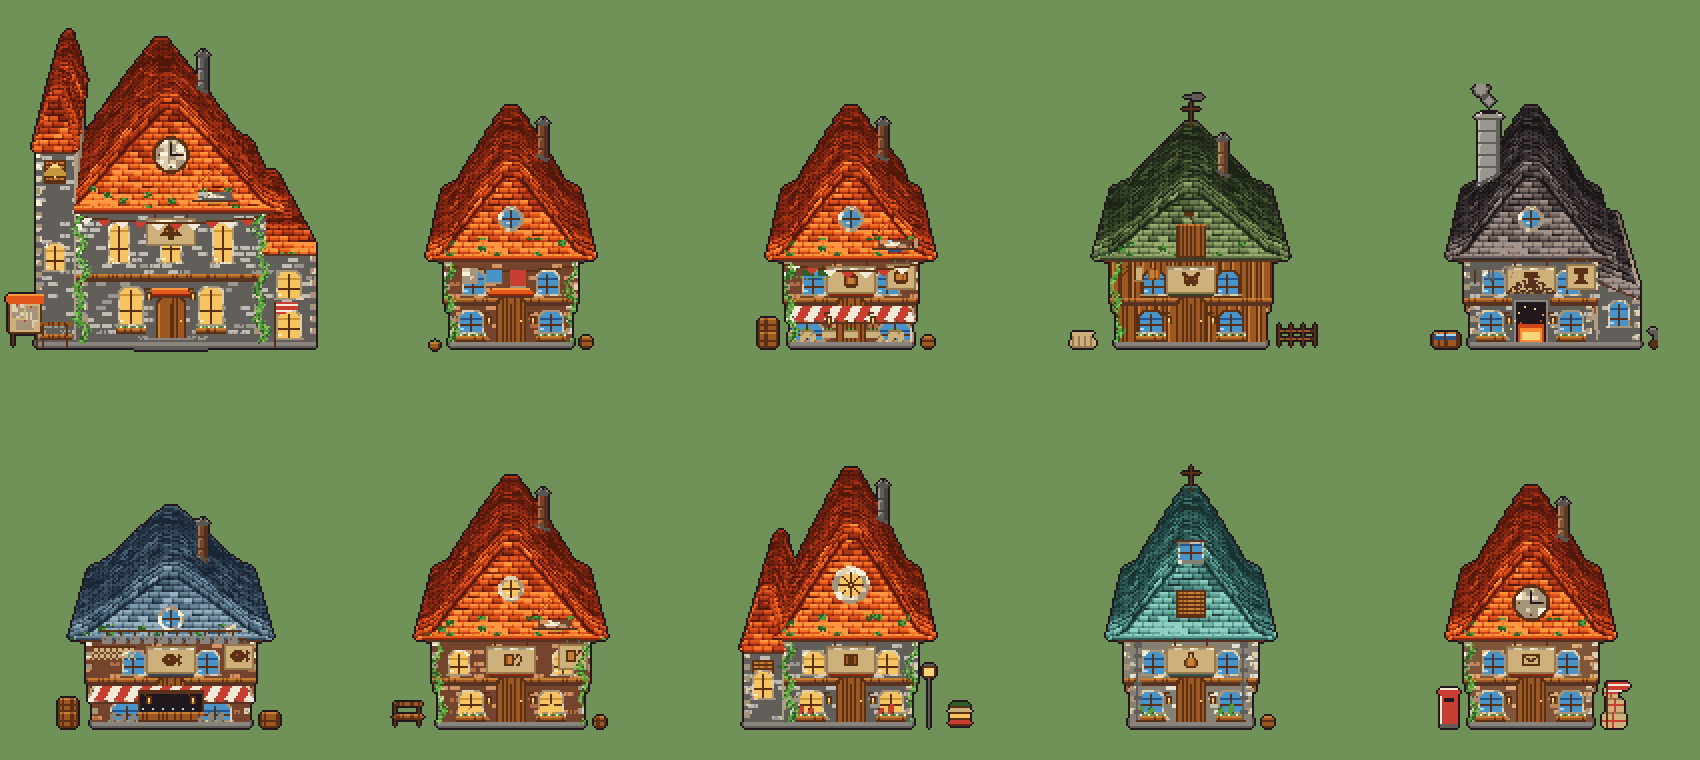
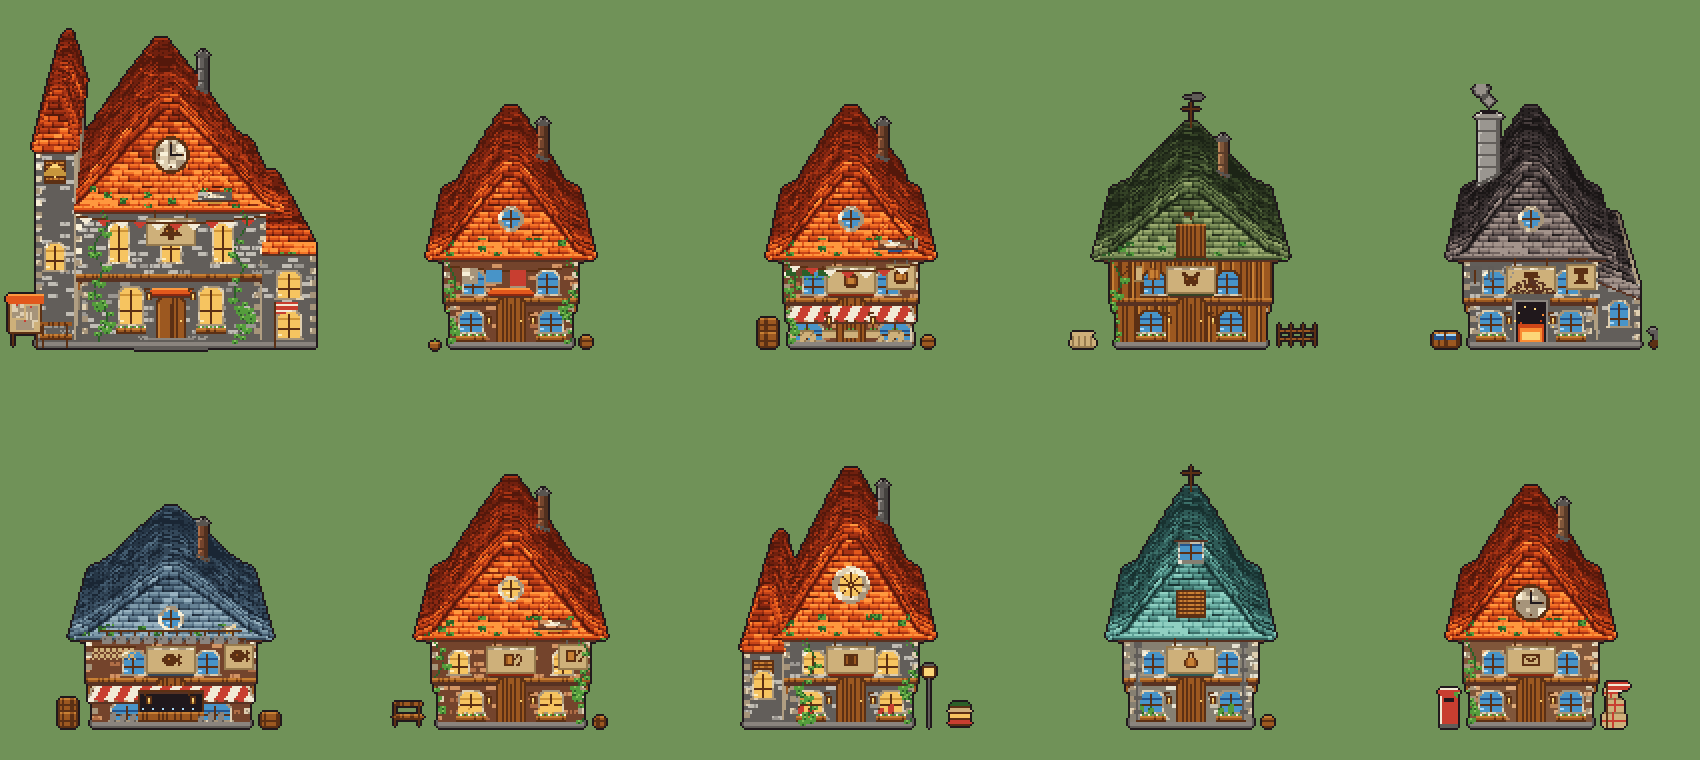
담쟁이를 밧줄에서 식물로
줄기를 통줄로 긋고 이웃 칸을 확률로 칠했더니 벽에 **초록 밧줄**이 걸려
있었다. 식물은 그렇게 안 생겼다:

  잎    한 장에 **세 색이 다 들어간다** — 윤곽(N)·속(n)·빛(v).
        한 색으로 칠한 덩어리는 잎이 아니라 이끼다
  줄기  두 파장으로 휘고 **띄엄띄엄 끊긴다**. 통줄이면 그것도 밧줄이다
  잎차례 줄기 옆에 **번갈아** 한 장씩. 위로 갈수록 성기게
  곁가지 가끔 옆으로 뻗어 나가며 잎을 단다. 이게 있어야 「자란 것」이 된다
  덩굴손 꼭대기에서 한두 가닥이 가늘게 삐져나온다.
        뭉툭하게 끝나면 잘라 붙인 것처럼 보인다

그리고 자리도 옮겼다. 덩어리가 붙은 쪽은 담쟁이를 **안으로 들인다** —
이음매 위에 얹으면 가려 주기는커녕 「여기가 경계다」를 초록으로 표시하는
꼴이 된다.

diff --git a/game/assets/ref/make_buildings.js b/game/assets/ref/make_buildings.js
@@ -730,16 +730,49 @@ function clockFace(g, cx, cy, r) {
 // 처마 밑**을 타고 오른다. 넓은 면 한복판에 붙이면 얼룩으로 보인다.
 function ivy(g, x, yBottom, yTop) {
   const h = Math.max(1, yBottom - yTop);
+  const on = (px, py) => g.get(px, py) !== '.';            // 실루엣 안에서만 자란다
+
+  // 잎 한 장 — **세 색이 다 들어가야** 잎으로 보인다: 윤곽·속·빛.
+  // 한 색으로 칠한 덩어리는 이끼지 잎이 아니다
+  const leaf = (px, py, big) => {
+    const w = big ? 2 : 1;
+    for (let dy = 0; dy <= w; dy++) for (let dx = -w; dx <= w; dx++) {
+      if (Math.abs(dx) + dy > w + 1) continue;
+      if (on(px + dx, py + dy)) g.px(px + dx, py + dy, 'n');
+    }
+    if (on(px, py)) g.px(px, py, 'v');                     // 윗면이 빛을 받는다
+    if (on(px, py + w)) g.px(px, py + w, 'N');             // 밑은 그늘
+  };
+
+  let side = 1;
   for (let y = yBottom; y >= yTop; y--) {
     const t = (yBottom - y) / h;
-    const px = x + Math.round(Math.sin(y * 0.42) * 1.7 + Math.sin(y * 0.17) * 1.2);
-    const dens = 0.66 - t * 0.40;                          // 끝으로 갈수록 성기게
-    for (const [dx, dy] of [[0, 0], [-1, 0], [1, 0], [0, -1], [-2, 1], [2, -1], [1, 1], [-1, 1]]) {
-      if (dx && hash(px * 3 + dx, y * 5 + dy) > dens) continue;
-      if (g.get(px + dx, y + dy) === '.') continue;        // 실루엣 밖으로는 안 뻗는다
-      g.px(px + dx, y + dy, hash(px + dx * 7, y + dy * 11) < 0.28 ? 'v'
-        : (hash(px + dx, y - dy) < 0.35 ? 'N' : 'n'));
+    // 줄기 — 두 파장으로 휘며 오른다. 곧게 그으면 밧줄이 된다.
+    // 그리고 **띄엄띄엄** 끊는다 — 통줄이면 그것도 밧줄이다
+    const sx = x + Math.round(Math.sin(y * 0.27) * 2.4 + Math.sin(y * 0.09) * 1.7);
+    if (on(sx, y) && hash(sx, y) < 0.8) g.px(sx, y, 'N');
+    // 잎은 줄기 **옆에 한 장씩** 번갈아. 위로 갈수록 성기다
+    if (hash(sx * 5 + 1, y * 3) < 0.52 - t * 0.40) {
+      side = -side;
+      leaf(sx + side * 2, y, hash(y, sx) < 0.45);
     }
+    // 곁가지 — 가끔 옆으로 뻗어 나가며 잎을 단다. 이게 있어야 「자란 것」이 된다
+    if (t < 0.75 && hash(y, 91) < 0.055) {
+      const dir = hash(y, 7) < 0.5 ? -1 : 1;
+      const len = 3 + Math.floor(hash(y, 5) * 4);
+      for (let k = 1; k <= len; k++) {
+        const bx = sx + dir * k, by = y - (k >> 1);
+        if (!on(bx, by)) break;
+        g.px(bx, by, 'N');
+        if (k % 2 === 0) leaf(bx, by - 1, false);
+      }
+    }
+  }
+  // 끝의 덩굴손 — 꼭대기에서 한두 가닥이 가늘게 삐져나온다.
+  // 덩굴이 뭉툭하게 끝나면 잘라 붙인 것처럼 보인다
+  for (let k = 0; k < 4; k++) {
+    const ty = yTop - k, tx = x + Math.round(Math.sin(ty * 0.27) * 2.4) + (k % 2 ? 1 : -1);
+    if (on(tx, ty)) g.px(tx, ty, k < 2 ? 'n' : 'N');
   }
 }
 
@@ -1613,8 +1646,11 @@ function build(spec) {
   if (spec.smoke) smoke(g, (spec.chimneyX || CX) + 5, RIDGE - 39);
   // 담쟁이는 **맨 마지막**에. 창틀·간판 위로 조금 넘어가야 자란 것처럼 보인다
   const iv = spec.ivy === undefined ? 2 : spec.ivy;
-  if (iv >= 1) ivy(g, X0 - JUT + 2, GROUND - 3, EAVE + 3);
-  if (iv >= 2) ivy(g, X1 + JUT - 2, GROUND - 3, EAVE + 3);
+  // 덩어리가 붙은 쪽은 담쟁이를 **안으로 들인다.** 이음매 위에 얹으면
+  // 가려 주기는커녕 「여기가 경계다」를 초록으로 표시하는 꼴이 된다
+  const att = k => spec.tower === k || spec.lean === k || spec.wing === k;
+  if (iv >= 1) ivy(g, att('left') ? X0 + 9 : X0 - JUT + 2, GROUND - 3, EAVE + 3);
+  if (iv >= 2) ivy(g, att('right') ? X1 - 9 : X1 + JUT - 2, GROUND - 3, EAVE + 3);
 
   roughen(g);           // 기와 한 장씩 얹기 + 벽 줄눈·결
   bargeBoard(g, X0 - JUT - 3, X1 + JUT + 3, RIDGE, EAVE);  // 빗변 널은 기와 위에
